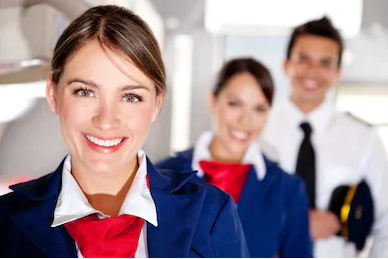
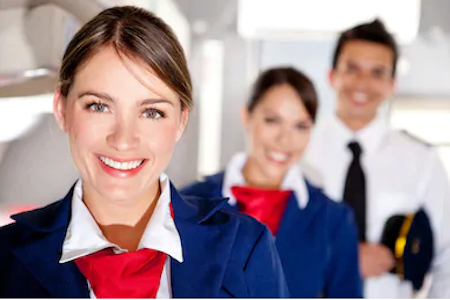
Made some image changes

diff --git a/careers.html b/careers.html
@@ -60,10 +60,10 @@
 				<hr class="my-4">
 			</div>
 			<div class="row justify-content-md-center">
-				<div class="col-4">
-  					<img src="images/21-400x300.jpg" class="img-fluid rounded" alt="Responsive image">
+				<div class="col-6">
+  					<img src="images/careers.png" class="img-fluid rounded" alt="Responsive image">
 				</div>
-				<div class="col-8">
+				<div class="col-6">
 					<p class="lead">
   						Why Alta Vista Air?
 					</p>

diff --git a/css/main.css b/css/main.css
@@ -5,7 +5,7 @@ body {
 
 .header {
   background-color: white;
-  background-image: url('../images/airport1.jpg');
+  background-image: url('../images/hero-2.jpg');
   background-size: cover;
   background-position: center;
   position: relative;
